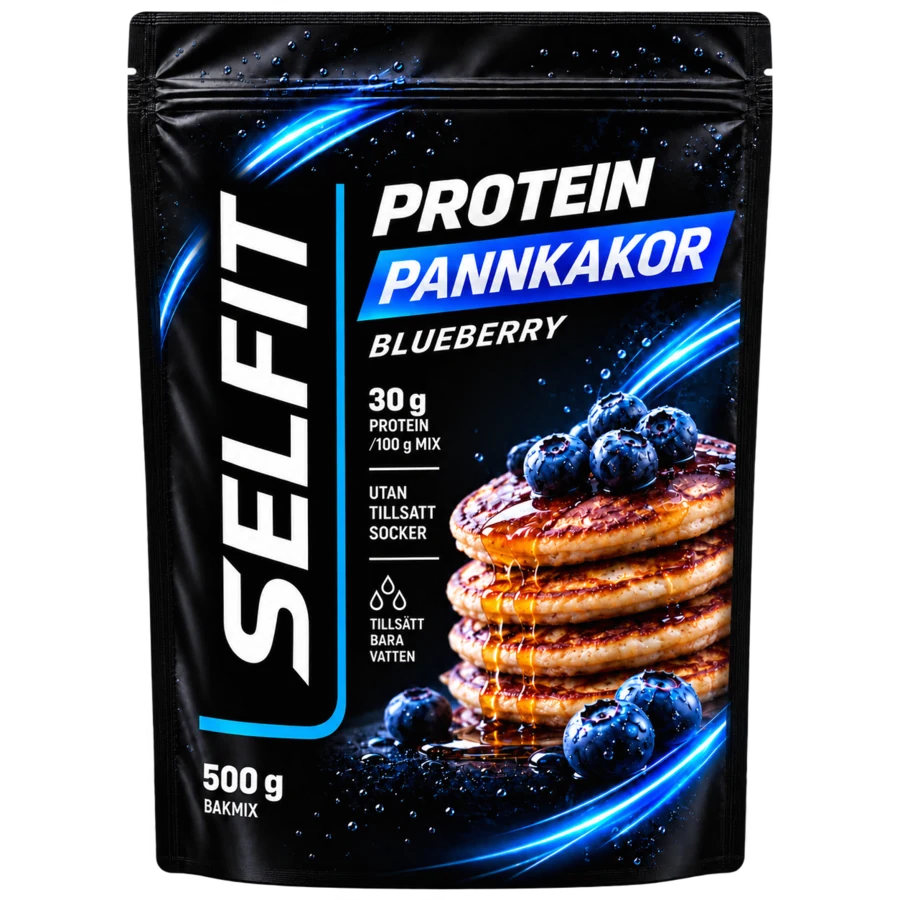
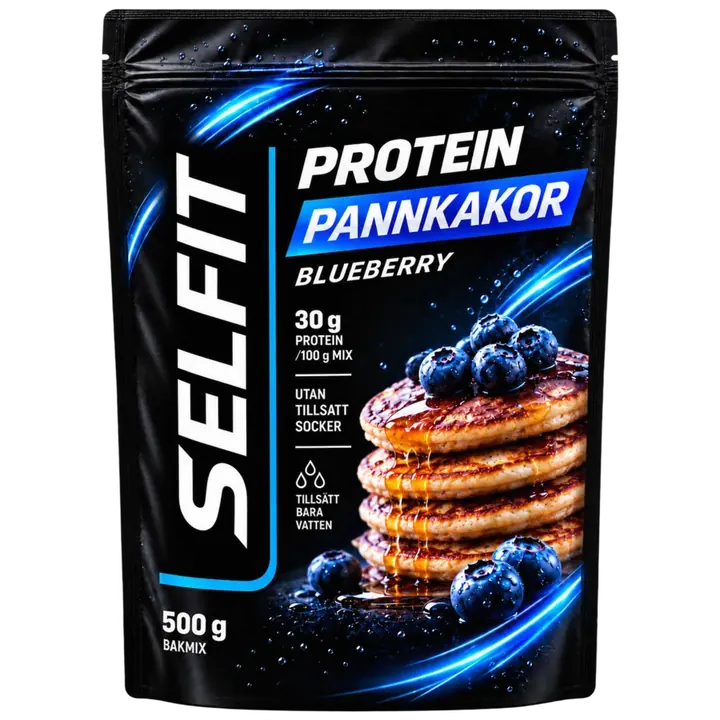
Snabbare sidor: cache, komprimering, uppdelad kod, egna typsnitt och WebP
- Servern: gzip-komprimering, Cache-Control (assets 1 år, bilder 1 vecka,
  HTML no-cache) och förladdning av toppbilden på startsidan
- Admin och alla sidor utom startsidan laddas vid behov (startsidans kod
  566 kB -> 270 kB, 86 kB komprimerat)
- Typsnitten Inter och Manrope ligger på egen server istället för Google Fonts
- Bilder omgjorda till WebP och mindre storlek (toppbild 166 -> 76 kB,
  kategoribilder 73-107 -> 10-22 kB, PWO+-burkar ca halverade)

Claude-Session: https://claude.ai/code/session_01JRd6vArHscgxgZRywP9bAX

diff --git a/apps/web/src/App.tsx b/apps/web/src/App.tsx
@@ -1,25 +1,36 @@
-import { type ReactNode } from 'react';
+import { lazy, Suspense, type ReactNode } from 'react';
 import { Route, Switch, useLocation, Router as WouterRouter } from 'wouter';
 import { ErrorBoundary } from '@/components/error-boundary';
 import { Layout } from '@/components/layout/Layout';
-import { AdminApp } from '@/admin/AdminApp';
 import { CartProvider } from '@/state/cart';
 import { CookieProvider } from '@/state/cookies';
 import Home from '@/pages/Home';
-import { BrandPage, CategoryPage, CollectionPage } from '@/pages/ListingPages';
-import SearchPage from '@/pages/Search';
-import ProductPage from '@/pages/Product';
-import CartPage from '@/pages/Cart';
-import CheckoutPage from '@/pages/Checkout';
-import OrderConfirmationPage from '@/pages/OrderConfirmation';
-import TrackingPage from '@/pages/Tracking';
-import ReturnPage from '@/pages/Return';
-import { SupportArticlePage, SupportIndexPage } from '@/pages/Support';
-import NotFound from '@/pages/not-found';
+
+// Övriga sidor och admin laddas först när de behövs, så att startsidan laddar snabbt.
+const AdminApp = lazy(() => import('@/admin/AdminApp').then((m) => ({ default: m.AdminApp })));
+const CategoryPage = lazy(() => import('@/pages/ListingPages').then((m) => ({ default: m.CategoryPage })));
+const BrandPage = lazy(() => import('@/pages/ListingPages').then((m) => ({ default: m.BrandPage })));
+const CollectionPage = lazy(() => import('@/pages/ListingPages').then((m) => ({ default: m.CollectionPage })));
+const SearchPage = lazy(() => import('@/pages/Search'));
+const ProductPage = lazy(() => import('@/pages/Product'));
+const CartPage = lazy(() => import('@/pages/Cart'));
+const CheckoutPage = lazy(() => import('@/pages/Checkout'));
+const OrderConfirmationPage = lazy(() => import('@/pages/OrderConfirmation'));
+const TrackingPage = lazy(() => import('@/pages/Tracking'));
+const ReturnPage = lazy(() => import('@/pages/Return'));
+const SupportArticlePage = lazy(() => import('@/pages/Support').then((m) => ({ default: m.SupportArticlePage })));
+const SupportIndexPage = lazy(() => import('@/pages/Support').then((m) => ({ default: m.SupportIndexPage })));
+const NotFound = lazy(() => import('@/pages/not-found'));
+
+/** Visas kort medan en sida laddas. Tom yta med rätt höjd, så att sidan inte hoppar. */
+function PageFallback() {
+  return <div className="page-fallback" aria-busy="true" />;
+}
 
 function Routes() {
   return (
     <RoutedErrorBoundary>
+      <Suspense fallback={<PageFallback />}>
       <Switch>
         <Route path="/" component={Home} />
         <Route path="/kategori/:slug" component={CategoryPage} />
@@ -36,6 +47,7 @@ function Routes() {
         <Route path="/support/:slug" component={SupportArticlePage} />
         <Route component={NotFound} />
       </Switch>
+      </Suspense>
     </RoutedErrorBoundary>
   );
 }
@@ -58,7 +70,9 @@ function AppContent() {
   if (location === '/admin' || location.startsWith('/admin/')) {
     return (
       <RoutedErrorBoundary>
-        <AdminApp />
+        <Suspense fallback={<PageFallback />}>
+          <AdminApp />
+        </Suspense>
       </RoutedErrorBoundary>
     );
   }

diff --git a/apps/api/src/index.ts b/apps/api/src/index.ts
@@ -14,6 +14,7 @@ import { serve } from '@hono/node-server';
 import { serveStatic } from '@hono/node-server/serve-static';
 import { Hono } from 'hono';
 import { basicAuth } from 'hono/basic-auth';
+import { compress } from 'hono/compress';
 import { createApp } from './app.ts';
 import { createDb } from './db/client.ts';
 import { runMigrations } from './db/migrate.ts';
@@ -29,6 +30,9 @@ if (process.env.SEED_IF_EMPTY === 'true' && (await isEmpty(db))) {
 
 const root = new Hono();
 
+// Komprimera svar (gzip) – koden blir ungefär en tredjedel så stor att ladda ner.
+root.use('*', compress());
+
 const password = process.env.SITE_PASSWORD;
 if (password) {
   root.use('*', basicAuth({ username: process.env.SITE_USER ?? 'selfit', password, realm: 'SELFIT test' }));
@@ -41,9 +45,31 @@ const dir = here(import.meta.url);
 const webDir = findDir(`${dir}/../../web/dist/public`);
 if (webDir) {
   const indexHtml = readFileSync(`${webDir}/index.html`, 'utf8');
-  root.use('*', serveStatic({ root: relative(process.cwd(), webDir) }));
+  // Startsidans toppbild börjar laddas direkt, innan JavaScript har körts.
+  const homeHtml = indexHtml.replace(
+    '</head>',
+    '    <link rel="preload" as="image" href="/images/hero.webp" fetchpriority="high" />\n  </head>',
+  );
+
+  // Cache: filer i /assets har versionsnummer i namnet och kan sparas ett år.
+  // Bilder sparas en vecka. HTML kontrolleras alltid så att nya versioner syns direkt.
+  root.use('*', async (c, next) => {
+    await next();
+    if (c.res.status !== 200 || c.res.headers.has('Cache-Control')) return;
+    const path = c.req.path;
+    if (path.startsWith('/assets/')) c.header('Cache-Control', 'public, max-age=31536000, immutable');
+    else if (path.startsWith('/images/') || path === '/favicon.svg') c.header('Cache-Control', 'public, max-age=604800');
+    else if (!path.startsWith('/api/')) c.header('Cache-Control', 'no-cache');
+  });
+
+  const statics = serveStatic({ root: relative(process.cwd(), webDir) });
+  // "/" hanteras nedan (med förladdad toppbild), allt annat som filer om de finns.
+  root.use('*', (c, next) => (c.req.path === '/' || c.req.path === '/index.html' ? next() : statics(c, next)));
   // Alla andra adresser (t.ex. /produkt/pwo-plus) visar butikens startfil.
-  root.get('*', (c) => (c.req.path.startsWith('/api/') ? c.notFound() : c.html(indexHtml)));
+  root.get('*', (c) => {
+    if (c.req.path.startsWith('/api/')) return c.notFound();
+    return c.html(c.req.path === '/' ? homeHtml : indexHtml);
+  });
 }
 
 const port = Number(process.env.PORT ?? 3001);

diff --git a/apps/web/src/admin/extendedAdminData.ts b/apps/web/src/admin/extendedAdminData.ts
@@ -52,8 +52,8 @@ export type LocalMediaItem = {
 export const defaultMediaItems: LocalMediaItem[] = [
   { id: 'media-pwo-blueberry', name: 'PWO+ blåbär, framsida', src: '/images/pwo-plus/blueberry.webp', alt: 'PWO+ blåbär, burk framifrån', kind: 'Produktbild', usedBy: ['PWO+ Pre-workout'] },
   { id: 'media-pancakes', name: 'Protein pannkakor', src: '/images/protein-pannkakor/blueberry.webp', alt: 'Förpackning med proteinpannkakor i blåbärssmak', kind: 'Förpackning', usedBy: ['Protein pannkakor'] },
-  { id: 'media-training', name: 'Träning vid vattnet', src: '/images/hero.jpg', alt: 'Person i träningskläder sitter vid vattnet efter träningen', kind: 'Livsstilsbild', usedBy: [] },
-  { id: 'media-creatine', name: 'Kreatin Monohydrat, exempelbild', src: '/images/kreatin-monohydrat-demo.jpeg', alt: 'SELFIT kreatinmonohydrat, burk med blåbärsgummies, tillfällig produktbild', kind: 'Produktbild', usedBy: ['Kreatin Monohydrat'] },
+  { id: 'media-training', name: 'Träning vid vattnet', src: '/images/hero.webp', alt: 'Person i träningskläder sitter vid vattnet efter träningen', kind: 'Livsstilsbild', usedBy: [] },
+  { id: 'media-creatine', name: 'Kreatin Monohydrat, exempelbild', src: '/images/kreatin-monohydrat-demo.webp', alt: 'SELFIT kreatinmonohydrat, burk med blåbärsgummies, tillfällig produktbild', kind: 'Produktbild', usedBy: ['Kreatin Monohydrat'] },
   { id: 'media-pwo-strawberry', name: 'PWO+ jordgubb, framsida', src: '/images/pwo-plus/strawberry.webp', alt: 'PWO+ jordgubb, burk framifrån', kind: 'Produktbild', usedBy: [] },
   { id: 'media-pwo-berry', name: 'PWO+ bärmix, framsida', src: '/images/pwo-plus/berry-fusion.webp', alt: 'PWO+ Berry Fusion, burk framifrån', kind: 'Produktbild', usedBy: [] },
   { id: 'media-pwo-mango', name: 'PWO+ mango och passionsfrukt', src: '/images/pwo-plus/mango-passion.webp', alt: 'PWO+ Mango Passion, burk framifrån', kind: 'Produktbild', usedBy: [] },

diff --git a/apps/web/src/data/categories.ts b/apps/web/src/data/categories.ts
@@ -8,7 +8,7 @@ export const categories: Category[] = [
     intro:
       'Allt du behöver före, under och efter passet. Vi har valt produkter med tydliga innehållsförteckningar och doseringar du förstår.',
     tone: 'lavender',
-    image: '/images/traning.jpg',
+    image: '/images/traning.webp',
     imageAlt: 'Ihoprullad lavendelfärgad yogamatta, gummiband och burkar mot ljus bakgrund',
   },
   {
@@ -18,7 +18,7 @@ export const categories: Category[] = [
     intro:
       'Kosttillskott för vardagen, från D-vitamin under vinterhalvåret till magnesium för kvällen. Rätt dos, tydligt förklarat.',
     tone: 'sage',
-    image: '/images/halsa.jpg',
+    image: '/images/halsa.webp',
     imageAlt: 'Burkar med kosttillskott och kapslar mot salviagrön bakgrund',
   },
   {
@@ -28,7 +28,7 @@ export const categories: Category[] = [
     intro:
       'Hudvård och kroppsvård utan krångel. Parfymfria alternativ, tydliga INCI-listor och storlekar som räcker.',
     tone: 'sand',
-    image: '/images/skonhet.jpg',
+    image: '/images/skonhet.webp',
     imageAlt: 'Tuber och en burk med hudvård på sandfärgad sten i mjukt ljus',
   },
 ];

diff --git a/apps/web/index.html b/apps/web/index.html
@@ -13,9 +13,7 @@
     <meta name="twitter:title" content="SELFIT – Träning, hälsa &amp; välmående" />
     <meta name="twitter:description" content="Träning, hälsa och kroppsvård från SELFIT. Tydliga priser, snabb leverans inom 1–2 vardagar och kundtjänst som svarar." />
     <link rel="icon" type="image/svg+xml" href="/favicon.svg" />
-    <link rel="preconnect" href="https://fonts.googleapis.com">
-    <link rel="preconnect" href="https://fonts.gstatic.com" crossorigin>
-    <link href="https://fonts.googleapis.com/css2?family=Inter:wght@400;500;600;700&family=Manrope:wght@500;600;700;800&display=swap" rel="stylesheet">
+    <meta name="theme-color" content="#4b2a6b" />
   </head>
   <body>
     <div id="root"></div>

diff --git a/apps/web/src/index.css b/apps/web/src/index.css
@@ -59,8 +59,8 @@
   --c-product-photo: #080a0f;
 
   /* Typography */
-  --font-display: 'Manrope', ui-sans-serif, system-ui, sans-serif;
-  --font-body: 'Inter', ui-sans-serif, system-ui, sans-serif;
+  --font-display: 'Manrope Variable', 'Manrope', ui-sans-serif, system-ui, sans-serif;
+  --font-body: 'Inter Variable', 'Inter', ui-sans-serif, system-ui, sans-serif;
   /* En gemensam, tajt skala för hela butiken (12–40 px). */
   --fs-xs: 0.75rem; /* 12 px: etiketter, fotnoter */
   --fs-sm: 0.8125rem; /* 13 px: meny, filter, småtext */
@@ -3178,4 +3178,8 @@ a.chip:hover {
 }
 .checkout-policies {
   margin-top: var(--space-3);
+}
+
+.page-fallback {
+  min-height: 60vh;
 }

diff --git a/apps/web/src/components/art/ProductImage.tsx b/apps/web/src/components/art/ProductImage.tsx
@@ -16,7 +16,7 @@ export function galleryViews(product: Product, variant: Variant): ImageView[] {
 
 export function photoFor(product: Product): { src: string; alt: string } {
   const c = getCategory(product.category);
-  return { src: c?.image ?? '/images/hero.jpg', alt: c?.imageAlt ?? product.name };
+  return { src: c?.image ?? '/images/hero.webp', alt: c?.imageAlt ?? product.name };
 }
 
 export function ProductImage({

diff --git a/apps/web/src/main.tsx b/apps/web/src/main.tsx
@@ -3,6 +3,9 @@ import { createRoot } from 'react-dom/client';
 import App from './App';
 import { ErrorBoundary } from '@/components/error-boundary';
 
+// Typsnitten ligger på vår egen server istället för hos Google (snabbare och utan tredjepartsanrop).
+import '@fontsource-variable/inter';
+import '@fontsource-variable/manrope';
 import './index.css';
 
 createRoot(document.getElementById('root')!, {

diff --git a/apps/web/src/pages/Home.tsx b/apps/web/src/pages/Home.tsx
@@ -53,7 +53,7 @@ export default function Home() {
           </div>
           <div className="hero-media">
             <img
-              src={`${base}/images/hero.jpg`}
+              src={`${base}/images/hero.webp`}
               alt="En löpare i lavendelfärgade träningskläder vilar på en solig kaj i Stockholm med en burk PWO+ i handen"
               fetchPriority="high"
             />

diff --git a/apps/web/src/data/products.ts b/apps/web/src/data/products.ts
@@ -302,7 +302,7 @@ const others: Product[] = [
     price: 249,
     measure: { amount: 0.3, unit: 'kg' },
     eanBody: '735020000044',
-    primaryImage: '/images/kreatin-monohydrat-demo.jpeg',
+    primaryImage: '/images/kreatin-monohydrat-demo.webp',
     primaryImageAlt: 'Tillfällig exempelbild för Kreatin Monohydrat: burk med kreatingummies',
   }),
   simple({
